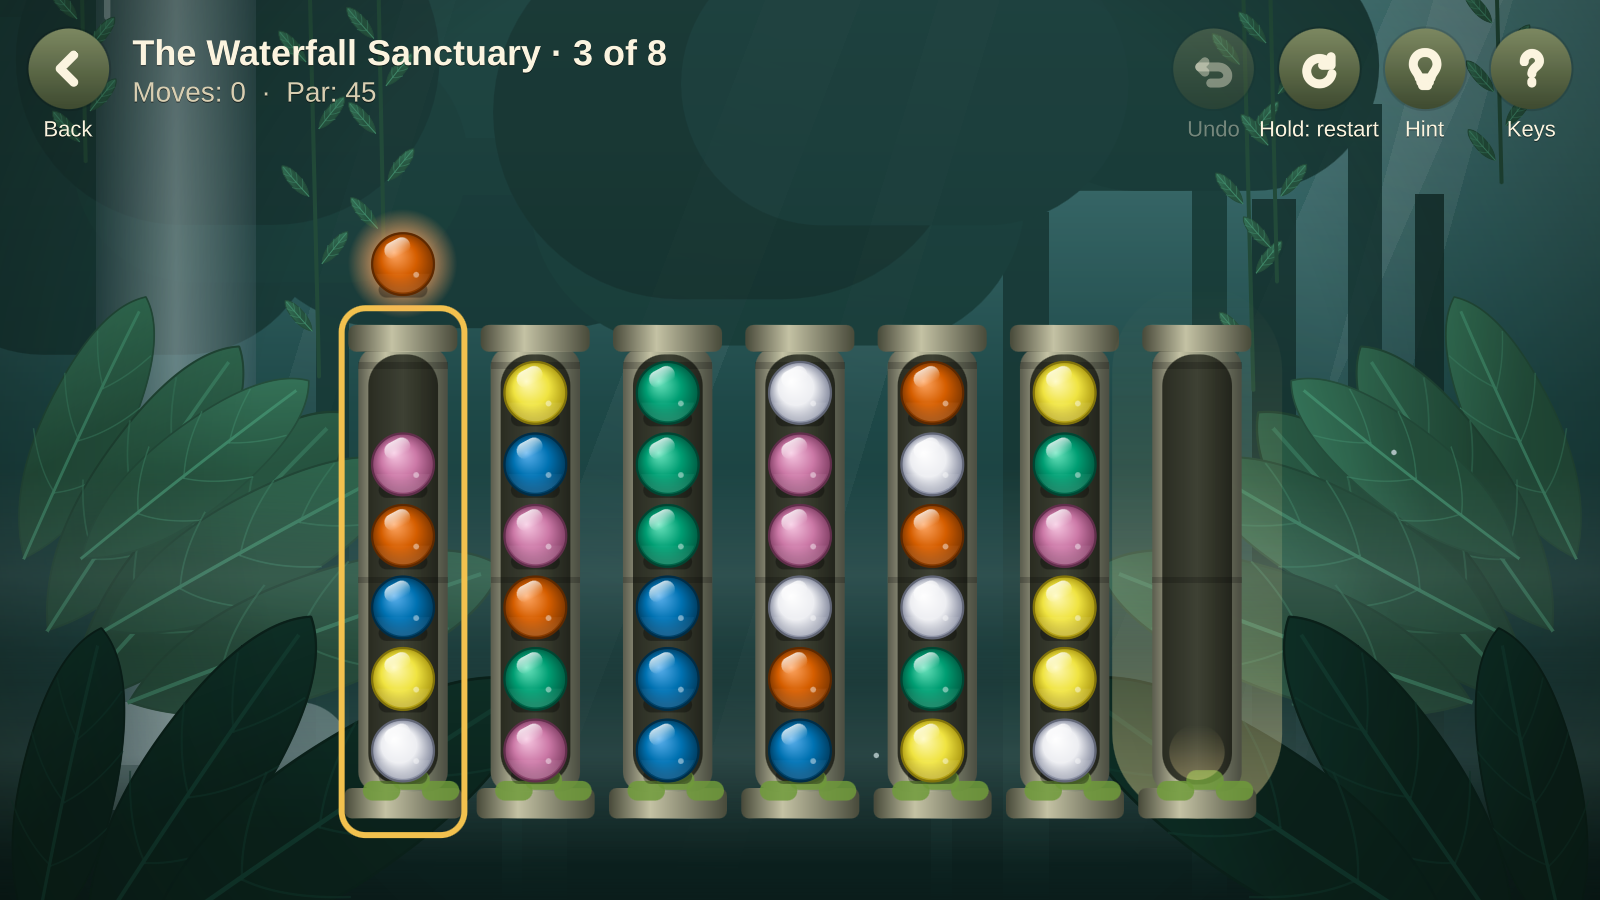
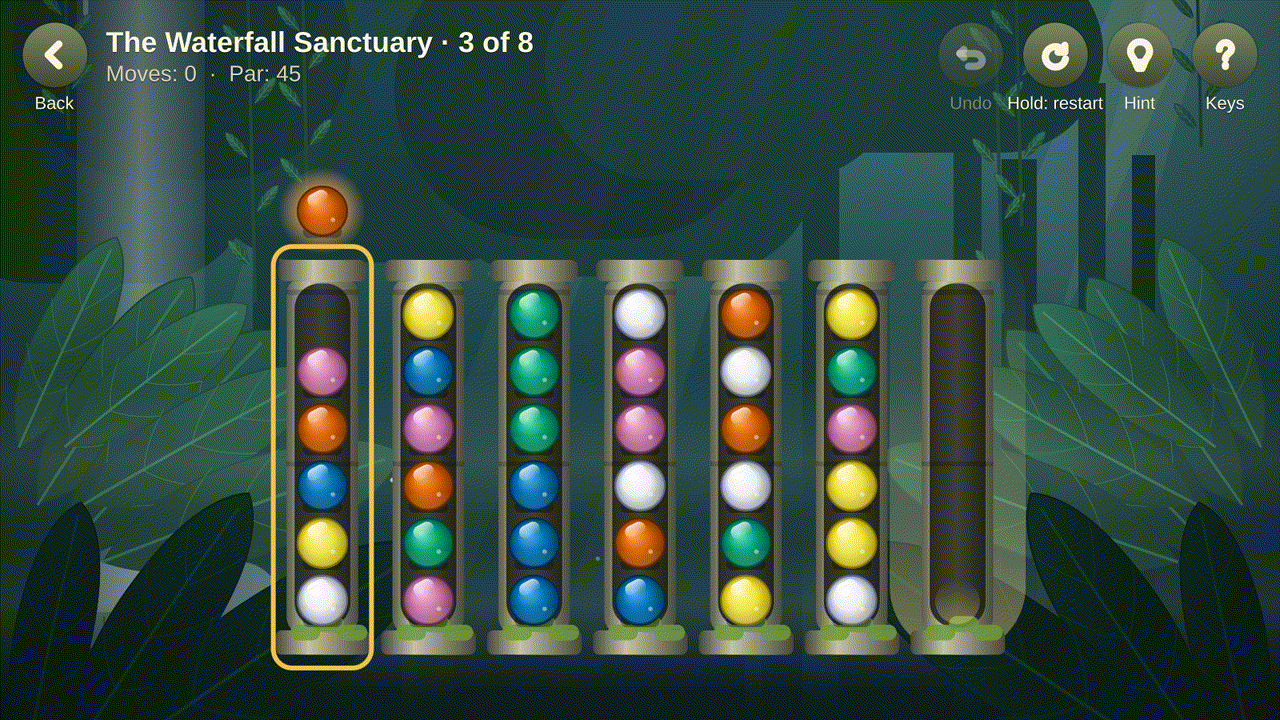
Answer review: cross-host saves, scrolling screens, held keys, hints
- The unfinished puzzle carries the time it last changed; across the two
  hosts' files the newest wins, so a puzzle finished in one host never
  comes back in the other. Tutorial completion is derived from the merged
  records. A setting change is applied to the settings on disk, so one
  host never undoes another's change.
- The menu and the map scroll at large interface sizes and keep the focused
  item in view (Scroller.qml).
- Only arrows and Tab auto-repeat; no held key can confirm anything.
- A hint survives a refused move; undo and restart clear its message.
- A hinted solve says so and names the best made without hints.
- Free-play references are checked against the five sizes, so a damaged
  save cannot throw.
- tools/shot lets worker threads finish before stepping frames, and icon
  strokes scale with the icon.
- The plugin preview is smaller; the 512 KiB check covers the assembled
  plugin; ASSETS.md lists the icon and preview; the release workflow and
  bin/plugin say plainly that the plugin checks need an Omarchy machine.

diff --git a/qml/Hueometry/Game.qml b/qml/Hueometry/Game.qml
@@ -47,12 +47,9 @@ Item {
   function ownProgressFile() { return host && host.kind === "plugin" ? "progress-plugin.json" : "progress-app.json" }
 
   function readProgress() {
-    const all = progressFiles.map(name => Store.progress(host.readText(name)))
-    const merged = all.reduce((acc, p) => Store.merge(acc, p), Store.progress(""))
-    // the unfinished puzzle comes from this host's own file first
-    const own = all[progressFiles.indexOf(ownProgressFile())]
-    const current = own.current || (all.find(p => p.current) || {}).current || null
-    return Object.assign({}, merged, { current })
+    // merge keeps every record and the most recently changed unfinished puzzle
+    return progressFiles.map(name => Store.progress(host.readText(name)))
+      .reduce((acc, p) => Store.merge(acc, p), Store.progress(""))
   }
 
   function load() {
@@ -71,19 +68,19 @@ Item {
   }
 
   function setSetting(key, value) {
-    const next = Object.assign({}, settings)
-    next[key] = value
-    settings = Store.settings(JSON.stringify(next))
+    // apply the one change to what is on disk: the other host may have
+    // changed something else
+    settings = Store.withSetting(host ? host.readText("settings.json") : JSON.stringify(settings), key, value)
     if (host) host.writeText("settings.json", JSON.stringify(settings))
   }
 
   function saveCurrent(ref, moves, assisted) {
-    progress = Object.assign({}, progress, { current: { ref, moves: moves.map(m => [m.from, m.to]), assisted: assisted === true } })
+    progress = Store.setCurrent(progress, { ref, moves: moves.map(m => [m.from, m.to]), assisted: assisted === true }, Date.now())
     saveProgress()
   }
 
   function recordSolved(ref, moves, assisted) {
-    const out = Store.solved(progress, ref, moves, assisted)
+    const out = Store.solved(progress, ref, moves, assisted, Date.now())
     progress = out.progress
     saveProgress()
     return out
@@ -179,6 +176,10 @@ Item {
   Timer { id: quitTimer; interval: 3000; onTriggered: root.confirmQuit = false }
 
   Keys.onPressed: function(event) {
+    // a held key repeats: let only arrows and Tab repeat, so no held key can
+    // confirm quitting, restarting, lifting or choosing
+    const moving = [Qt.Key_Left, Qt.Key_Right, Qt.Key_Up, Qt.Key_Down, Qt.Key_Tab].indexOf(event.key) >= 0
+    if (event.isAutoRepeat && !moving) { event.accepted = true; return }
     if (helpShown) { helpShown = false; event.accepted = true; return }
     if (event.key === Qt.Key_Question || (event.key === Qt.Key_Slash && (event.modifiers & Qt.ShiftModifier))) { helpShown = true; event.accepted = true; return }
     if (event.key === Qt.Key_F11 && host && host.canFullscreen) { host.toggleFullscreen(); event.accepted = true; return }

diff --git a/qml/Hueometry/Map.qml b/qml/Hueometry/Map.qml
@@ -39,7 +39,8 @@ Item {
     return false
   }
 
-  onAreaChanged: game.lastArea = area
+  onAreaChanged: { game.lastArea = area; areaScroll.show(tiles.itemAt(area)) }
+  onLevelChanged: levelScroll.show(stones.itemAt(level))
 
   RoundButton {
     anchors.left: parent.left
@@ -65,15 +66,20 @@ Item {
   }
 
   // areas
-  Grid {
+  Scroller {
+    id: areaScroll
     visible: map.depth === 0
-    anchors.centerIn: parent
-    anchors.verticalCenterOffset: Theme.em * 1.5
+    anchors.fill: parent
+    anchors.topMargin: Theme.em * 5
+    anchors.bottomMargin: Theme.em
+  Grid {
+    anchors.horizontalCenter: parent.horizontalCenter
     // as many columns as fit, from two to four
     columns: Math.max(2, Math.min(4, Math.floor((map.width - Theme.em * 4) / (Theme.em * 14.2))))
     horizontalItemAlignment: Grid.AlignHCenter
     spacing: Theme.em * 1.2
     Repeater {
+      id: tiles
       model: map.areas.length
       Item {
         id: tile
@@ -120,13 +126,21 @@ Item {
     }
   }
 
+  }
+
   // the puzzles of one area: round stones
-  Grid {
+  Scroller {
+    id: levelScroll
     visible: map.depth === 1
-    anchors.centerIn: parent
+    anchors.fill: parent
+    anchors.topMargin: Theme.em * 5
+    anchors.bottomMargin: Theme.em
+  Grid {
+    anchors.horizontalCenter: parent.horizontalCenter
     columns: 4
     spacing: Theme.em * 1.2
     Repeater {
+      id: stones
       model: map.depth === 1 ? map.levelCount() : 0
       Item {
         id: stone
@@ -167,5 +181,6 @@ Item {
         MouseArea { anchors.fill: parent; onClicked: map.game.start(map.levelRef(stone.index)) }
       }
     }
+  }
   }
 }

diff --git a/tools/shot/scenes/big.qml b/tools/shot/scenes/big.qml
@@ -1,18 +1,25 @@
 import QtQuick
 import "../../../qml/Hueometry"
 
-// Settings at 150% on a small window: the list must scroll.
+// A small window at 150% interface size: the word after the output name
+// picks the screen (menu, map, settings); the last item is focused.
 Item {
+  id: root
   width: 1280; height: 720
+  readonly property var args: Qt.application.arguments
+  function has(a) { return args.indexOf(a) >= 0 }
   Game {
     id: g
     anchors.fill: parent
-    host: MemoryHost { files: ({ "settings.json": JSON.stringify({ muted: true, scale: 1.5 }) }) }
-    Component.onCompleted: g.show("settings")
+    host: MemoryHost { files: ({
+      "settings.json": JSON.stringify({ muted: true, scale: 1.5 }),
+      "progress-app.json": JSON.stringify({ done: { "tutorial/0": { best: 3 } }, current: { ref: { kind: "tutorial", index: 1 }, moves: [] }, currentAt: 1 })
+    }) }
+    Component.onCompleted: g.show(root.has("map") ? "map" : root.has("settings") ? "settings" : "menu")
   }
   SequentialAnimation {
     running: true
     PauseAnimation { duration: 100 }
-    ScriptAction { script: g.current.cursor = 6 }
+    ScriptAction { script: root.has("map") ? g.current.area = 6 : root.has("settings") ? g.current.cursor = 6 : g.current.cursor = g.current.items.length - 1 }
   }
 }

diff --git a/qml/Hueometry/Play.qml b/qml/Hueometry/Play.qml
@@ -80,8 +80,10 @@ Item {
     const out = S.touch(session, column)
     session = out.state
     focusColumn = column
-    // a hint stays lit while its orb is lifted, until it lands or goes back
-    if (!(out.effect.kind === "lift" && hint && hint.from === column)) hint = null
+    // a hint stays lit while its orb is lifted, even through a refusal,
+    // until the orb lands or goes back
+    const keep = hint && ((out.effect.kind === "lift" && hint.from === column) || out.effect.kind === "refuse")
+    if (!keep) hint = null
     if (out.effect.kind === "move") message = ""
     board.effect(out.effect)
     game.sound.effect(out.effect)
@@ -117,6 +119,7 @@ Item {
     if (!session || won || S.view(session).moves === 0) return
     session = S.undo(session)
     hint = null
+    message = ref.kind === "tutorial" ? tutorialText(ref.index) : ""
     game.sound.cue("undo")
     game.saveCurrent(ref, S.history(session), assisted)
   }
@@ -130,6 +133,7 @@ Item {
     assisted = false
     confirmRestart = false
     board.celebrating = false
+    message = ref.kind === "tutorial" ? tutorialText(ref.index) : ""
     game.sound.cue("restart")
     game.saveCurrent(ref, S.history(session), assisted)
   }

diff --git a/qml/Hueometry/Scroller.qml b/qml/Hueometry/Scroller.qml
@@ -1,0 +1,27 @@
+import QtQuick
+
+// Holds a screen's content centred when it fits, and lets it scroll when the
+// interface is large on a small screen; show(item) keeps the focused item in
+// view for keyboard players.
+Flickable {
+  id: f
+  default property alias content: inner.data
+  clip: true
+  contentWidth: width
+  contentHeight: Math.max(height, inner.childrenRect.height)
+  boundsBehavior: Flickable.StopAtBounds
+
+  Item {
+    id: inner
+    width: f.width
+    height: childrenRect.height
+    y: Math.max(0, (f.height - childrenRect.height) / 2)
+  }
+
+  function show(item) {
+    if (!item) return
+    const top = item.mapToItem(inner, 0, 0).y + inner.y
+    if (top < contentY) contentY = Math.max(0, top - Theme.em * 0.5)
+    else if (top + item.height > contentY + height) contentY = Math.min(contentHeight - height, top + item.height - height + Theme.em * 0.5)
+  }
+}

diff --git a/qml/Hueometry/Menu.qml b/qml/Hueometry/Menu.qml
@@ -24,8 +24,14 @@ Item {
     return false
   }
 
+  onCursorChanged: scroller.show(buttons.itemAt(cursor))
+
+  Scroller {
+    id: scroller
+    anchors.fill: parent
+    anchors.margins: Theme.em
   Column {
-    anchors.centerIn: parent
+    anchors.horizontalCenter: parent.horizontalCenter
     spacing: Theme.em * 1.2
     Title {
       anchors.horizontalCenter: parent.horizontalCenter
@@ -43,6 +49,7 @@ Item {
     }
     Item { width: 1; height: Theme.em }
     Repeater {
+      id: buttons
       model: menu.items.length
       TextButton {
         required property int index
@@ -54,5 +61,6 @@ Item {
         onActivated: menu.items[index].act()
       }
     }
+  }
   }
 }

diff --git a/qml/Hueometry/Results.qml b/qml/Hueometry/Results.qml
@@ -74,6 +74,9 @@ Item {
         text: {
           if (!root.result) return ""
           const r = root.result
+          // a hinted solve never replaces a best made without hints
+          if (r.assisted && r.best && !r.best.assisted)
+            return qsTr("You used a hint this time. Your best without hints is %1.").arg(r.best.best)
           if (r.record === "first") return root.par > 0 ? qsTr("Par for this puzzle is %1.").arg(root.par) : ""
           if (r.record === "better") return qsTr("New personal best! Your last best was %1.").arg(r.previous.best)
           if (r.record === "same") return qsTr("You matched your best of %1.").arg(r.previous.best)

diff --git a/qml/Hueometry/Icon.qml b/qml/Hueometry/Icon.qml
@@ -30,7 +30,8 @@ Shape {
 
   ShapePath {
     strokeColor: root.colour
-    strokeWidth: 9
+    // the path is scaled from a 100 box; the stroke is not, so size it here
+    strokeWidth: Math.max(1.2, root.size * 0.09)
     capStyle: ShapePath.RoundCap
     joinStyle: ShapePath.RoundJoin
     fillColor: root.kind === "play" ? root.colour : "transparent"

diff --git a/tools/shot/shot.cpp b/tools/shot/shot.cpp
@@ -2,6 +2,8 @@
 // by fixed frames, and saves PNG screenshots.
 #include <QAnimationDriver>
 #include <QCommandLineParser>
+#include <QElapsedTimer>
+#include <QThread>
 #include <QGuiApplication>
 #include <QImage>
 #include <QOffscreenSurface>
@@ -34,6 +36,7 @@ int main(int argc, char **argv) {
   p.addOption({"size", "WxH", "size", "1920x1080"});
   p.addOption({"frames", "frames to run before the shot", "n", "60"});
   p.addOption({"every", "also save every n frames", "n", "0"});
+  p.addOption({"settle", "real milliseconds to let worker threads finish before stepping", "ms", "1500"});
   p.addHelpOption();
   p.process(app);
   const QStringList pos = p.positionalArguments();
@@ -106,6 +109,14 @@ int main(int argc, char **argv) {
     printf("shot: %s\n", qPrintable(path));
     return true;
   };
+  // Worker threads (the game prepares boards on one) run in real time while
+  // frames are simulated: let them finish first, without advancing time.
+  QElapsedTimer settle;
+  settle.start();
+  while (settle.elapsed() < p.value("settle").toInt()) {
+    QCoreApplication::processEvents(QEventLoop::AllEvents, 20);
+    QThread::msleep(5);
+  }
   for (int i = 1; i <= frames; ++i) {
     QCoreApplication::processEvents();
     driver.step(16);

diff --git a/ASSETS.md b/ASSETS.md
@@ -6,10 +6,15 @@ There are no third-party images, sounds or fonts.
 
 ## Pictures
 
-There are no image files. The jungle, the pillars, the orbs, the symbols and
-the icons are drawn by the QML in `qml/Hueometry/` (Jungle.qml, Leaf.qml,
-Pillar.qml, Orb.qml, Symbol.qml, Icon.qml) and are covered by the code's MIT
-licence as well.
+The game itself has no image files: the jungle, the pillars, the orbs, the
+symbols, the animal friends and the icons are drawn by the QML in
+`qml/Hueometry/` and are covered by the code's MIT licence as well. Two image
+files exist outside the game:
+
+| File | What |
+|---|---|
+| `pkgbuild/hueometry.svg` | the app icon, drawn by hand in SVG |
+| `plugin/preview.png` | the plugin's marketplace preview, a screenshot of the game made with `tools/shot` |
 
 ## Sounds
 
